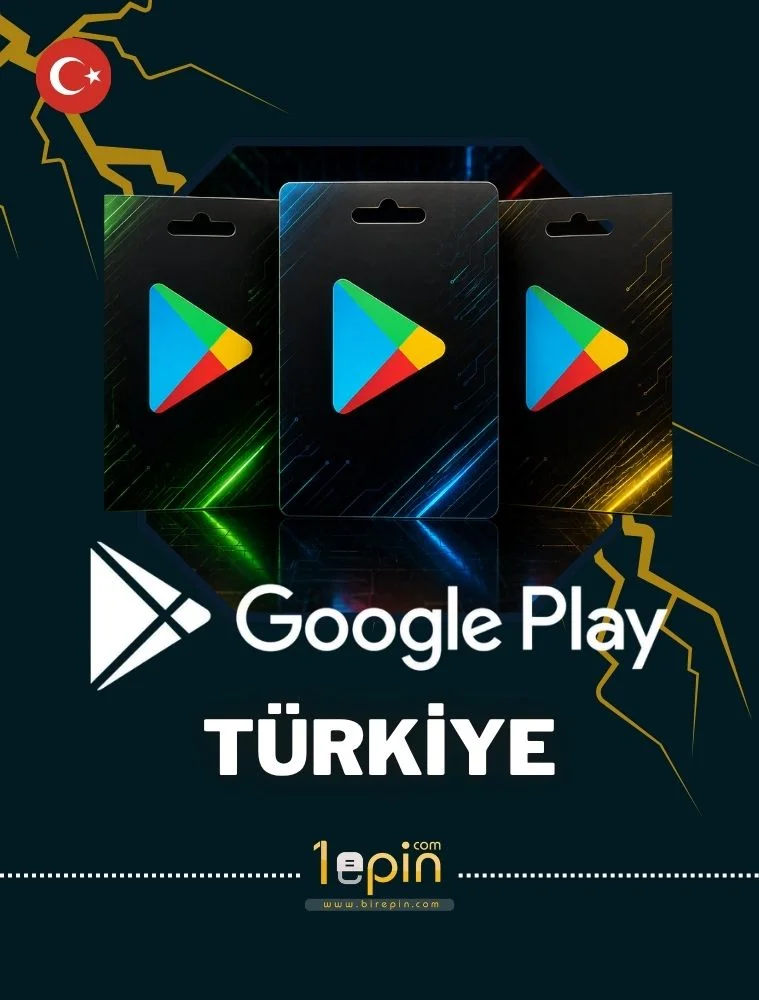
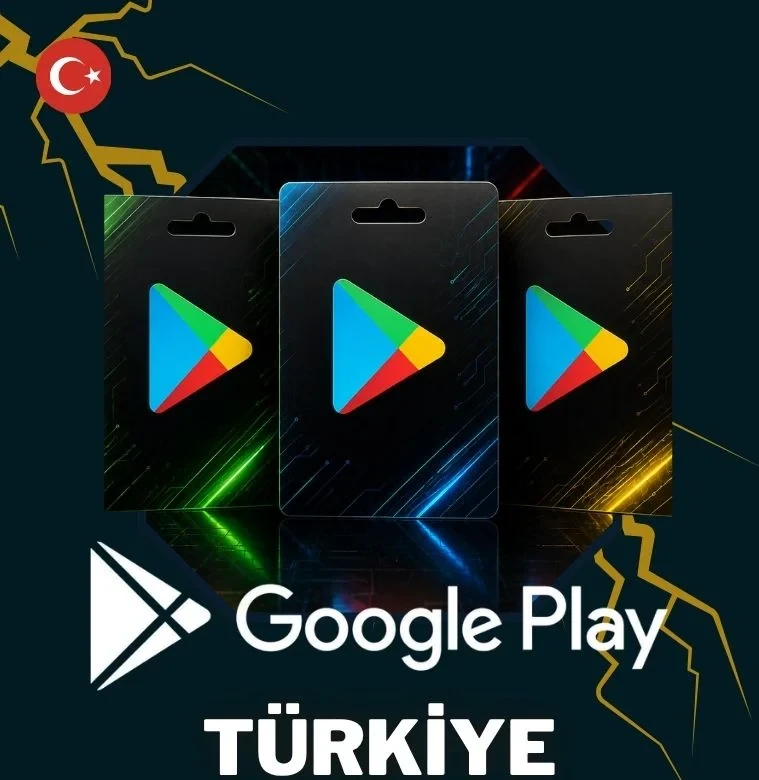
Remove 1Epin watermarks from storefront catalog artwork.
Crop supplier footer branding from card images and rebuild the homepage hero so client-facing media stays MMH-only.

diff --git a/src/components/product/product-gallery.tsx b/src/components/product/product-gallery.tsx
@@ -3,10 +3,11 @@ import { cn } from "@/lib/cn";
 import type { Product } from "@/types";
 
 function preferredCatalogImage(product: Product) {
-  const fromProduct = product.images.find((src) => /\.svg($|\?)/i.test(src));
+  const webp = product.images.find((src) => /\.webp($|\?)/i.test(src));
+  if (webp) return webp;
+  const fromProduct = product.images.find((src) => /\.(svg|png|jpe?g|avif)($|\?)/i.test(src));
   if (fromProduct) return fromProduct;
-  // Prefer local identification tiles on the detail page to avoid supplier watermarks.
-  return `/catalog/${product.id}.svg`;
+  return `/catalog/${product.id}.webp`;
 }
 
 export function ProductGallery({ product, className }: { product: Product; className?: string }) {

diff --git a/scripts/strip-catalog-watermarks.py b/scripts/strip-catalog-watermarks.py
@@ -1,0 +1,37 @@
+#!/usr/bin/env python3
+"""Strip supplier footer watermarks from catalog webp artwork."""
+
+from __future__ import annotations
+
+from pathlib import Path
+
+from PIL import Image
+
+ROOT = Path(__file__).resolve().parents[1]
+CATALOG = ROOT / "public" / "catalog"
+# Keep the top portion only — 1Epin stamps its logo in the bottom footer band.
+KEEP_RATIO = 0.78
+
+
+def strip_footer(path: Path, keep: float = KEEP_RATIO) -> None:
+    im = Image.open(path).convert("RGB")
+    width, height = im.size
+    cut = max(1, int(height * keep))
+    if cut >= height:
+        return
+    im.crop((0, 0, width, cut)).save(path, format="WEBP", quality=90, method=6)
+
+
+def main() -> None:
+    files = sorted(CATALOG.glob("*.webp"))
+    for path in files:
+        if path.name.startswith("_"):
+            continue
+        before = Image.open(path).size
+        strip_footer(path)
+        after = Image.open(path).size
+        print(f"{path.name}: {before[0]}x{before[1]} -> {after[0]}x{after[1]}")
+
+
+if __name__ == "__main__":
+    main()
